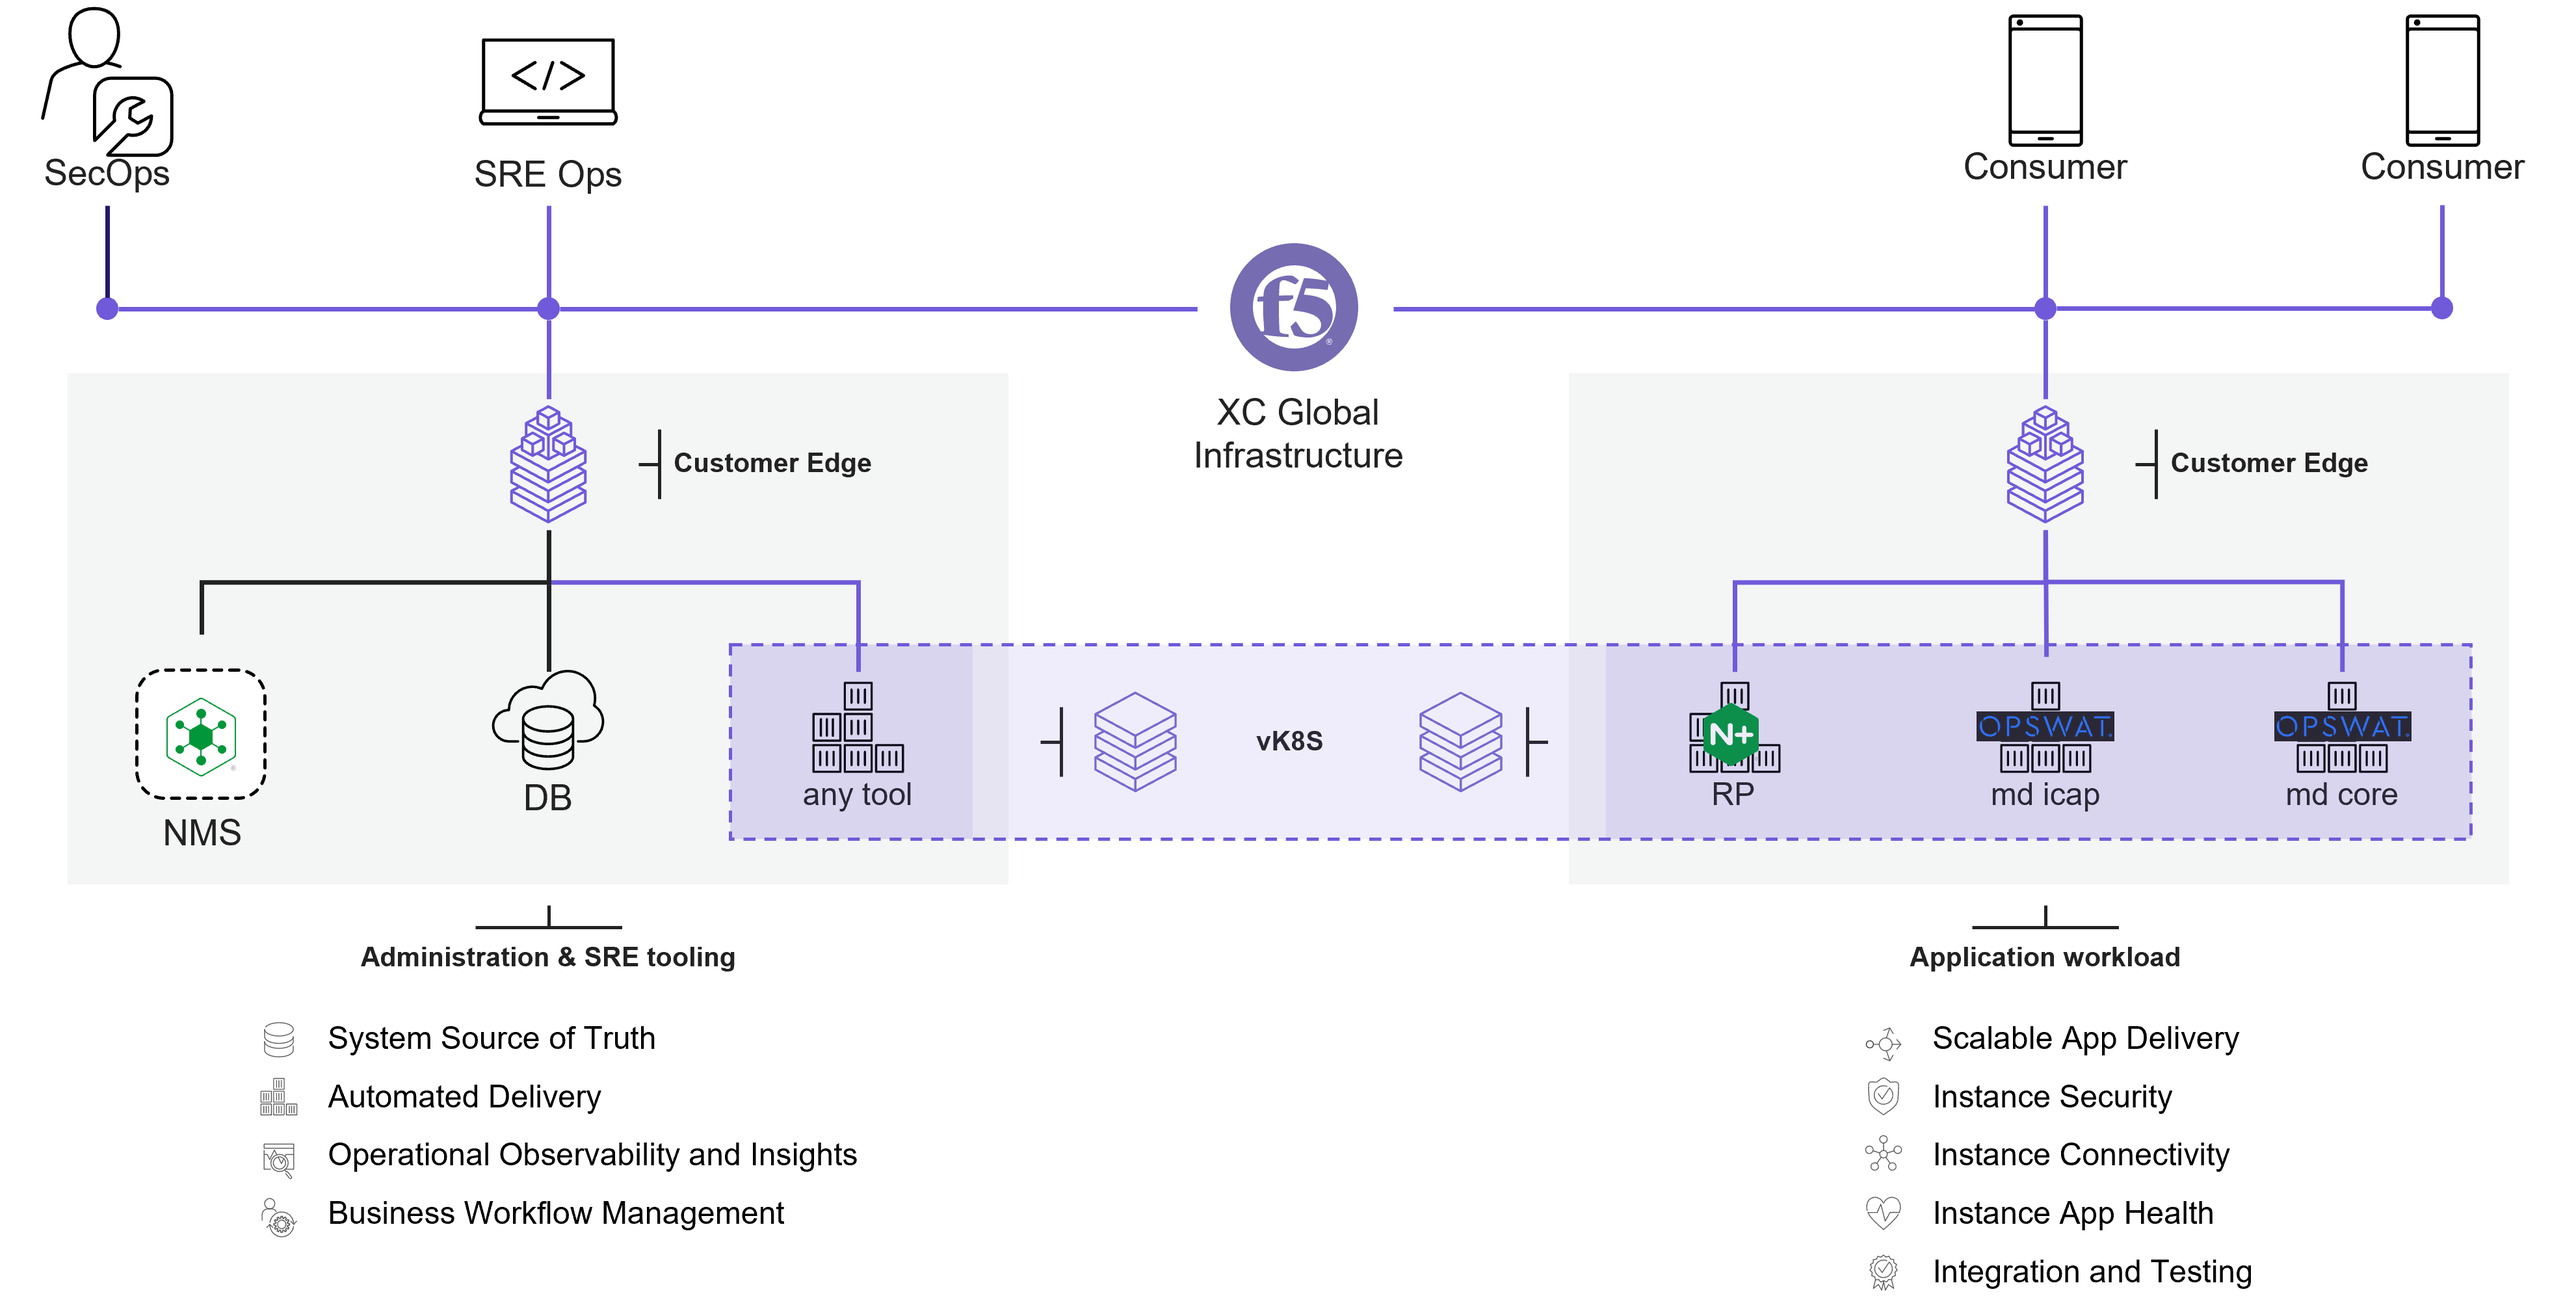
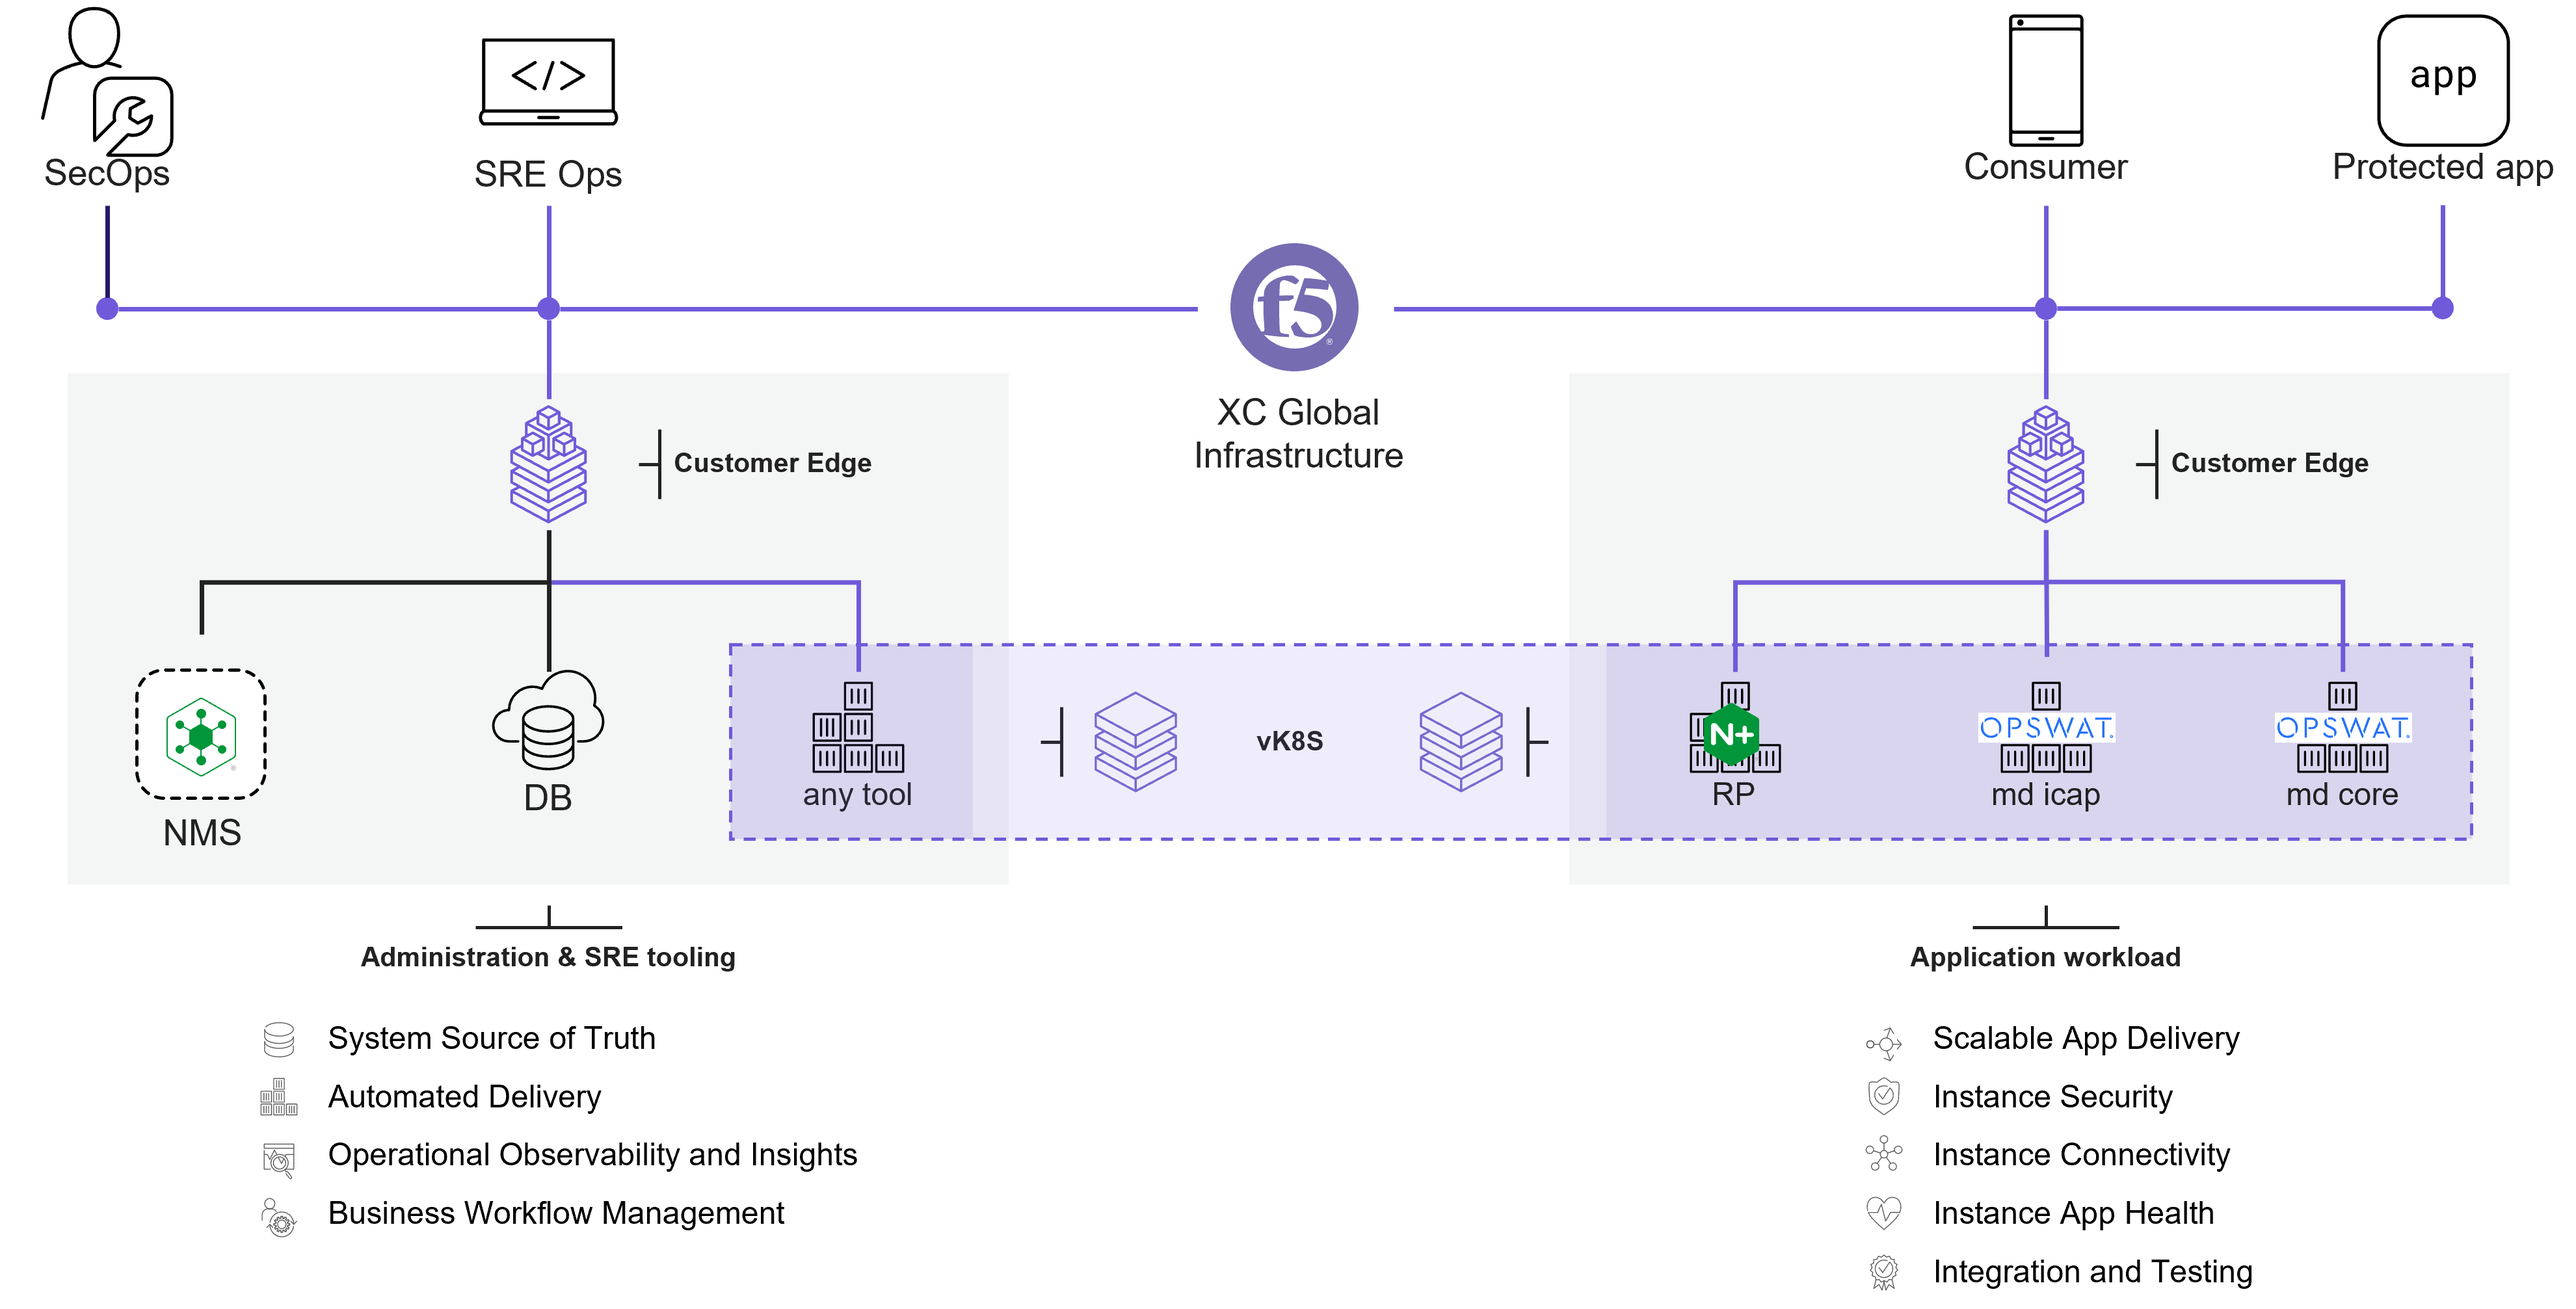
lab7

diff --git a/source/class8/module1/module1.rst b/source/class8/module1/module1.rst
@@ -76,6 +76,10 @@ MetaDefender ICAP Server provides HTTP interface, a NGINX connector, on top of M
 MetaDefender Core prevents malicious file uploads on web applications that bypass sandboxes and other detection-based security solutions.
 It also helps protect confidential data, minimize data breaches, and prevent privacy violations with Proactive DLP.
 
+MetaDefender Core requires a remote postgre DataBase.
+
+For this Lab, this database is hosted on Microsoft Azure PaaS DB.
+
 3) Control-Plane & Management-Plane | Central Manager
 ========================================================
 A Central Manager provides provides consistent configuration and oversight for NGINX+ instances hosted anywhere.
@@ -135,7 +139,8 @@ For vK8S point of view, dataplane components are deployed on Node ``cloudbuilder
    :width: 800
    :alt: App Traffic
 
-Service Mesh feature of F5 XC AppStack monitor traffic between components of the solution:
+Service Mesh feature of F5 XC AppStack monitor traffic between components of the solution.
+See demo video:
 
 .. raw:: html
 
@@ -143,103 +148,61 @@ Service Mesh feature of F5 XC AppStack monitor traffic between components of the
 
 Central Manager
 ========================================================
-NGINX Management Suite (NMS) is hosted on a VM and accessible from API owners on Internet.
+NGINX Management Suite (NMS) is hosted on a VM and accessible from SecOps and Customer support team (SRE Ops).
 NMS UI/API is published and secured by F5 XC.
 
-.. image:: ./_pictures/api_owner_to_nms.png
+.. image:: ./_pictures/Architecture_NMS_access.png
    :align: center
    :width: 800
-   :alt: API owner <> NMS
+   :alt: SecOps > NMS
 
-API GWs
+Configuration of all NGINX+ instance is managed by NIM module hosted on NMS server.
+When a NGINX+ instance starts, it retrieves its configuration from NMS.
+Metrics of NGINX+ instances are collected centrally in NIM.
+
+.. image:: ./_pictures/Architecture_nginx_agent_nim.png
+   :align: center
+   :width: 800
+   :alt: nginx-agent > NIM
+
+See demo video:
+
+.. raw:: html
+
+    <a href="http://www.youtube.com/watch?v=1vcApl5NC0o"><img src="http://img.youtube.com/vi/1vcApl5NC0o/0.jpg" width="600" height="300" title="NIM"></a>
+
+Malware analysis
 ========================================================
-API gateway instances are hosted on Containers and deployed on vK8S, in closest regions where consumers are present.
-A consumer can be a endpoint/edge on Internet or another micro-service present in vK8S.
-Application Services are published and secured by F5 XC.
+On F5 XC, a HTTP LB manages content routing for a protected domain:
 
-.. image:: ./_pictures/api_gw_consumer.png
+    - HTTP PATH and methods (POST + PUT) are forwarded to NGINX + pool
+    - by default, all others transactions are directly forwarded to backend pool that are application's origin servers
+
+The picture below shows a transaction with NO file uploaded
+
+.. image:: ./_pictures/Architecture_App_direct_access.png
    :align: center
    :width: 800
-   :alt: Consumer <> API GW
+   :alt: Consumer > App with no uploaded file
 
-NMS communicates with managed API gateways through a GRPC session initiated by a ``nginx-agent`` installed on API gateways.
-Communications are forwarded through F5 XC virtual backbone.
+The picture below shows a transaction with a file uploaded
 
-.. image:: ./_pictures/api_gw_nms.png
+.. image:: ./_pictures/Architecture_malware_analysis.png
    :align: center
    :width: 800
-   :alt: Consumer <> API GW
+   :alt: Consumer > App with no uploaded file
 
+When a file is uploaded, steps are:
 
-Developer Portal
-========================================================
-Developer Portal instances are hosted on Containers and deployed on vK8S, in closest regions where developers are present.
-Developer Portals are published and secured by F5 XC.
+    1. Request is forwarded to NGINX+ pool
+    2. Request is forwarded to MetaDefender ICAP server pool
+    3. Payload of the request is extracted and passed to MetaDefender CORE for analysis. Verdict is sent back to MD ICAP. Request is sent back to NGINX.
+    4. Request is forwarded to a internal HTTP LB that does content routing based on host header and forwards traffic to the remote application.
 
-.. image:: ./_pictures/devportal_developer.png
-   :align: center
-   :width: 800
-   :alt: Developer >> DevPortal
+If a malware is present in the uploaded file, there is no step 4 because NGINX generates a response that notifies client of the blocking request.
 
-NMS communicates with managed Developer Portals through:
-    - ``nginx-agent`` sessions, as seen for API GWs,
-    - and a ``nginx-devportal`` service: NMS initiates REST API calls to a ``nginx-devportal`` service that is published and secured by F5 XC.
+See demo video:
 
-.. image:: ./_pictures/devportal_nginx-devportal.png
-   :align: center
-   :width: 800
-   :alt: NMS >> DevPortal
+.. raw:: html
 
-Persistent data of Developer Portals, from all regions, are stored in a PaaS DB (Azure Database for PostgreSQL) available in only one region.
-Communications are forwarded through F5 XC virtual backbone.
-
-.. image:: ./_pictures/devportal-pass_db.png
-   :align: center
-   :width: 800
-   :alt: DevPortal >> PaaS DB
-
-Sentence app
-***************************************************************
-For this lab, `Sentence application  <https://gitlab.com/sentence-app>`_ is deployed.
-
-Components
-========================================================
-Sentence is based on multiple decoupled services:
-
-    - **frontend**: Web UI that generates an HTML page and delivers a Single Page Application (JavaScript).
-    - **background**: a micro-service that returns (GET) a *background* image
-    - **generator**: a micro-service that generates a *Sentence* by aggregating an *adjective*, an *animal*, a *color* and a *location*
-    - **adjectives**: a micro-service that returns (GET) an *adjective*
-    - **animals**: a micro-service that returns (GET) an *animal*
-    - **colors**: a micro-service that returns (GET) an *color*
-    - **locations**: a micro-service that returns (GET) an *location*
-
-.. image:: ./_pictures/sentence_global_view.png
-   :align: center
-   :width: 800
-   :alt: Sentence App
-
-End user authentication | oAuth OIDC + PKCE
-========================================================
-End user must be authenticated to CREATE a new *adjective*, *animal*, *color* or *location*.
-Authentication is handled by API GW that leverages Okta as an Identity Provider.
-
-.. image:: ./_pictures/sentence_POST.png
-   :align: center
-   :width: 800
-   :alt: Sentence App
-
-`oAuth/OIDC <https://developer.okta.com/docs/concepts/oauth-openid/>`_ flow is described in picture below and `here <https://github.com/nginxinc/nginx-openid-connect>`_.
-
-.. image:: ./_pictures/API_GW_PKCE.png
-   :align: center
-   :width: 800
-   :alt: Sentence App
-
-PKCE is used to make Sentence apps more secure, see explanations `here  <https://developer.okta.com/blog/2019/08/22/okta-authjs-pkce#use-pkce-to-make-your-apps-more-secure>`_.
-
-Application authentication | API Key
-========================================================
-Client, for example a mobile app, must be authenticated to CREATE a new *color*.
-Authentication is handled by API GW and authentication is based on API key provided by the application.
-
+    <a href="http://www.youtube.com/watch?v=bV-iFqOp8xA"><img src="http://img.youtube.com/vi/bV-iFqOp8xA/0.jpg" width="600" height="300" title="Malware analysis"></a>
